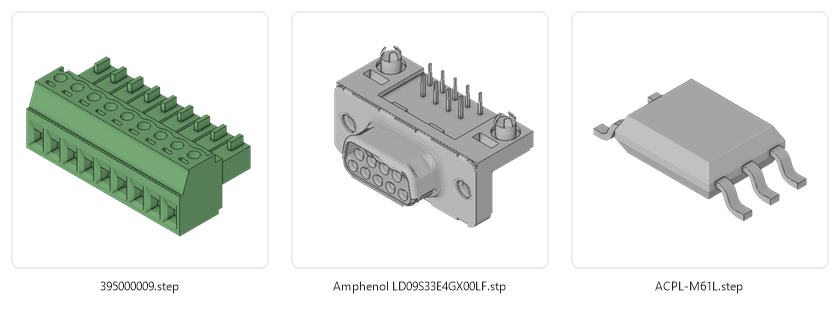
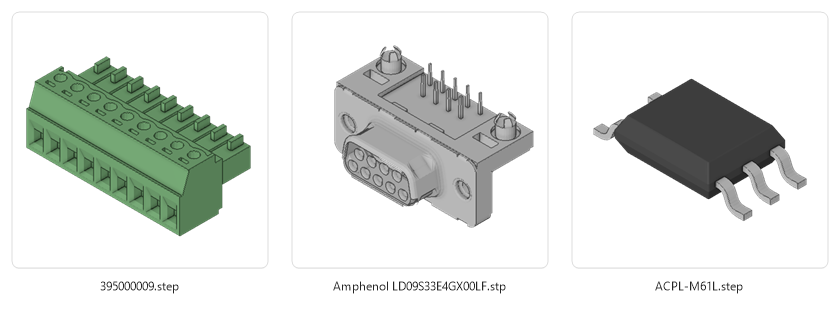
Show the app version and refresh release examples

Changed region(s): [[0.7119, 0.2563, 0.9595, 0.6266]]

diff --git a/rust/app/src/ui/forms.rs b/rust/app/src/ui/forms.rs
@@ -14,7 +14,7 @@ pub unsafe fn build(hwnd: HWND, cfg: &Config) -> Controls {
         TCS_FIXEDWIDTH,
         10,
         8,
-        626,
+        510,
         25,
         9,
     );
@@ -31,6 +31,18 @@ pub unsafe fn build(hwnd: HWND, cfg: &Config) -> Controls {
         SendMessageW(tabs, TCM_INSERTITEMW, i, &item as *const _ as isize);
     }
     tab_size(tabs);
+    control(
+        hwnd,
+        "STATIC",
+        concat!("v", env!("CARGO_PKG_VERSION")),
+        windows_sys::Win32::System::SystemServices::SS_RIGHT
+            | windows_sys::Win32::System::SystemServices::SS_CENTERIMAGE,
+        536,
+        8,
+        96,
+        25,
+        8,
+    );
     let mut pages: [Vec<HWND>; 4] = Default::default();
     let mut add = |p: usize, h| {
         pages[p].push(h);

diff --git a/README.md b/README.md
@@ -10,6 +10,9 @@ an upgrade.
 - **Very low resource usage.** Zero CPU/GPU work and about 29 MB RAM while
   idling, with GPU resources released after jobs. Preflighting wakes on filesystem
   changes, with no Windows service or periodic rescans.
+- **Designed to stay out of your way.** Low CPU and RAM use, low-priority
+  preflighting and a tray icon matching Windows' standard icons keep its impact
+  on your system small.
 - **About 5× faster on the tested assembly.** My 6.7 MB STEP assembly took about
   a second with the modified Look renderer, against 5–6 seconds with F3D.
   A cached thumbnail returned in 16 ms.
